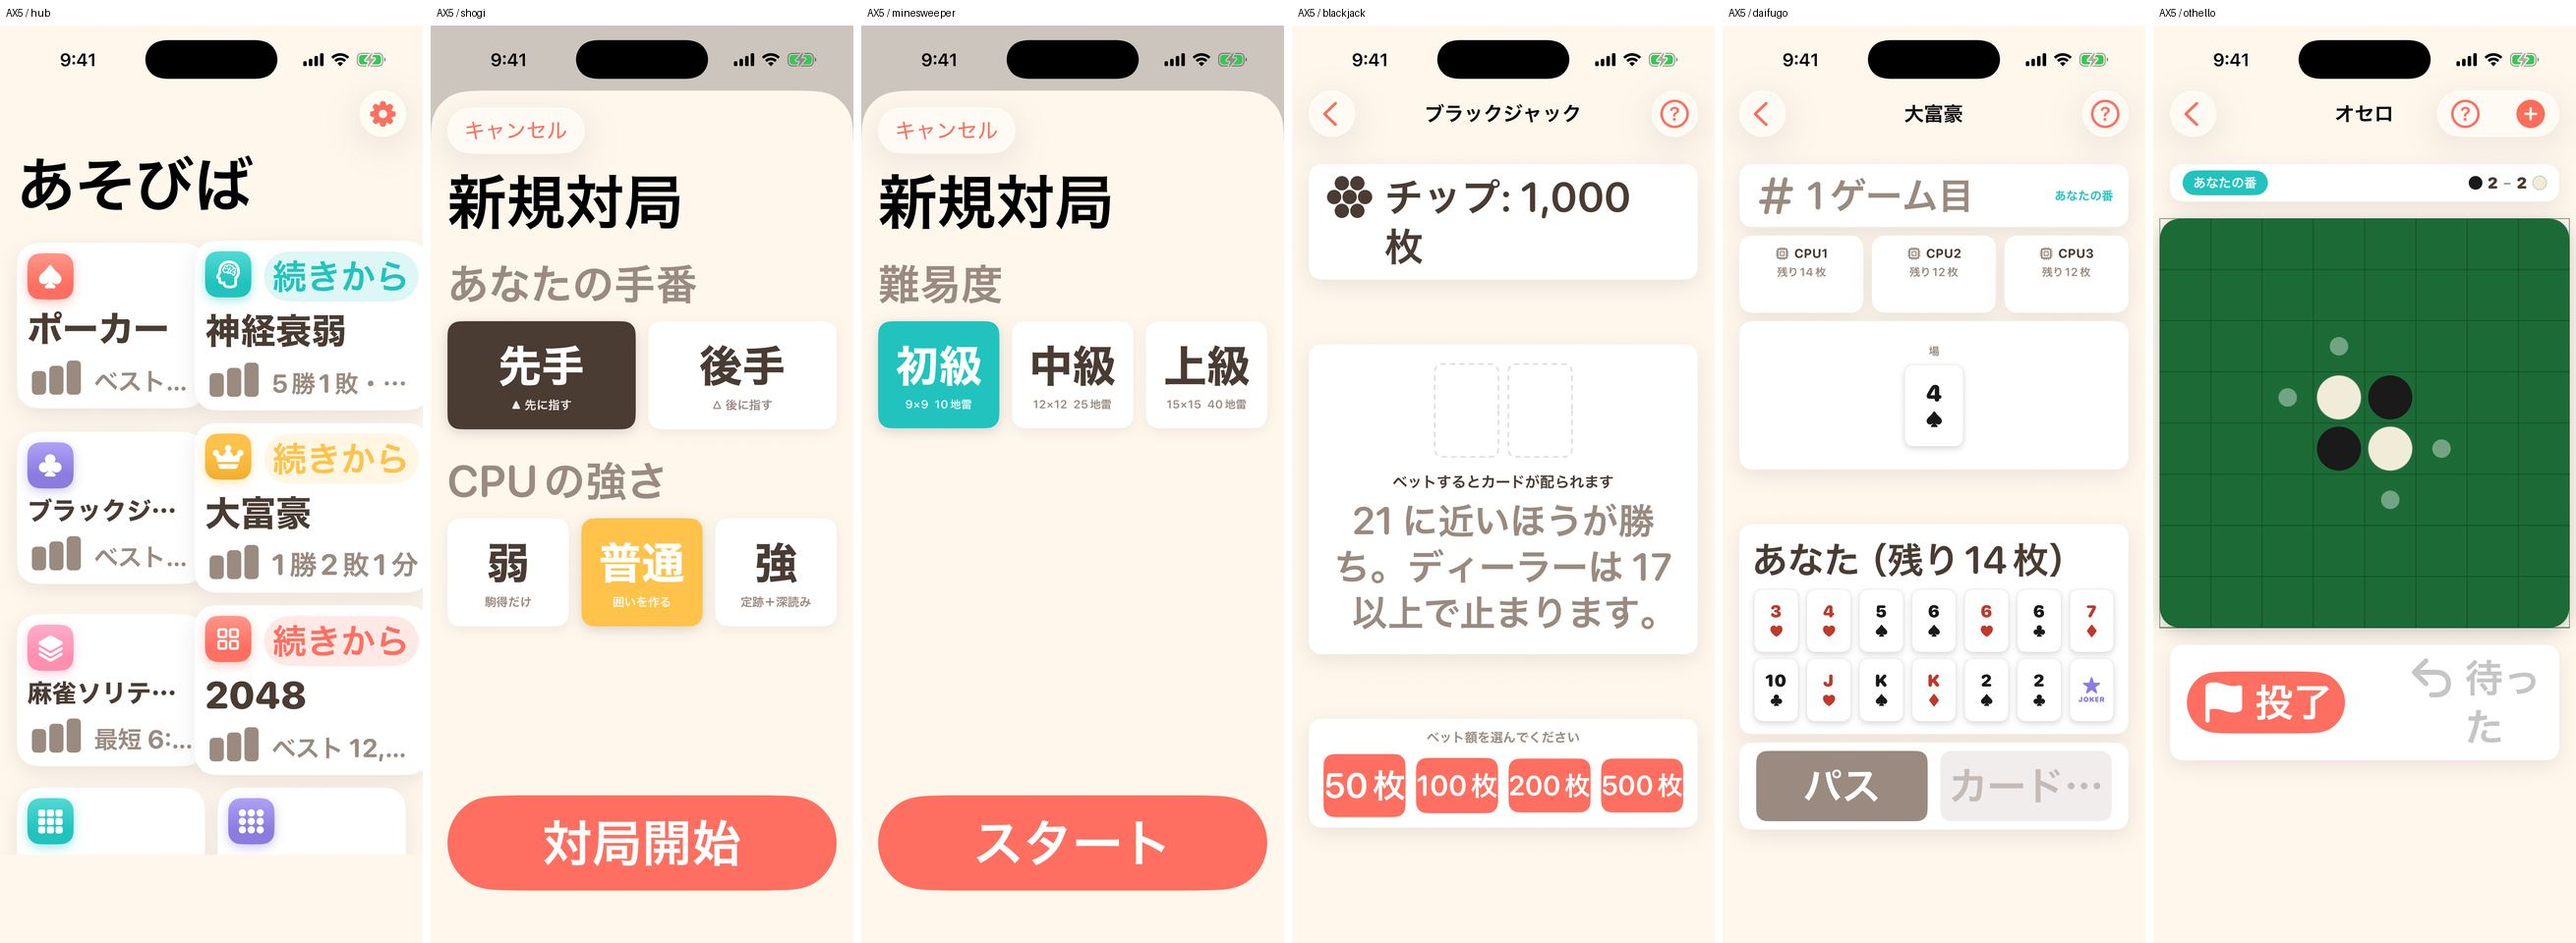
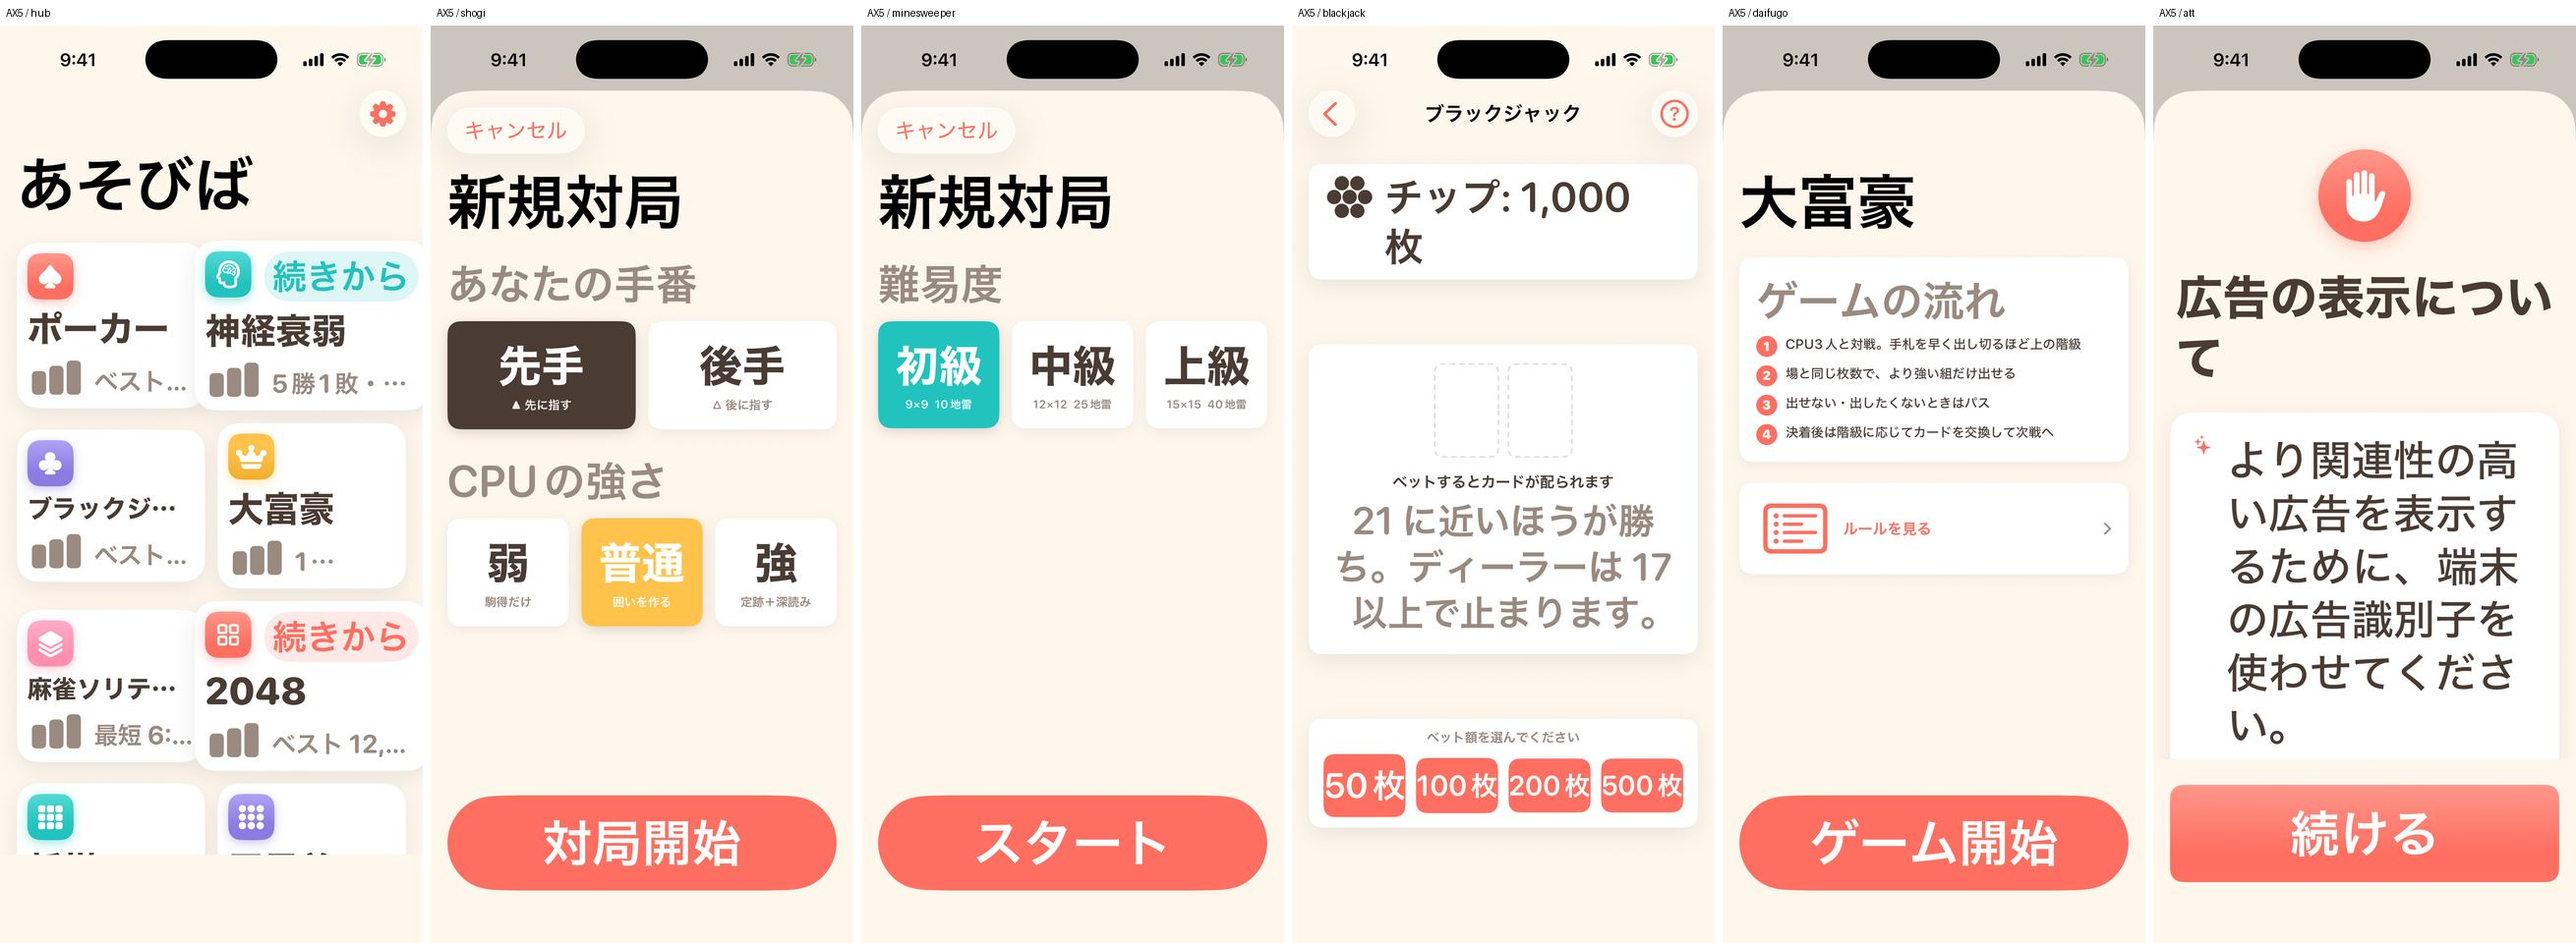
fix(a11y): CodeRabbit 指摘のDynamic Type崩れを修正
- 大富豪・ポーカーの操作ボタンを1行に固定（`パス` `カードを選ぶ` `コール N枚`
  が折り返してボタンの高さが跳ねる）。ブラックジャックと同じ扱いに揃える
- マインスイーパーの終局ラベルから水平 `fixedSize` を外し `minimumScaleFactor`
  を追加（理想幅を要求してタイマー・旗・ズームを押し出す）。プレイ中の残り地雷数は
  等幅で幅を固定したいため `fixedSize` を分岐内へ移して維持
- ATT 事前説明シートの説明文・補足も追従対象にし、併せて説明部分をスクロール可能に
  変更（拡大すると説明だけで画面を超え「続ける」に到達できなくなるため）
- レコメンドカードの見出し・「あそぶ」も追従対象にし、`heightPlaceholder` と
  同じ基準 pt を共有して高さ契約を維持
- `themeTitle` / `themeBody` に weight を渡せるようにし、移行時に太さを変えずに済むようにした

diff --git a/App/TrackingConsentPrompt.swift b/App/TrackingConsentPrompt.swift
@@ -28,32 +28,41 @@ struct TrackingConsentPrompt: View {
     @State private var isContinuing = false
 
     var body: some View {
+        // 説明はスクロールさせ、「続ける」は下端に固定する。文字を拡大すると説明だけで
+        // 画面を超え、固定レイアウトのままだと CTA に到達できなくなるため（#189）。
+        // 既定の文字サイズでは説明が収まるので、見た目は従来と変わらない。
         VStack(spacing: 24) {
-            Image(systemName: "hand.raised.fill")
-                .font(.system(size: 44, weight: .bold))
-                .foregroundStyle(.white)
-                .frame(width: 88, height: 88)
-                .background(Circle().fill(Theme.coral.gradient))
-                .shadow(color: Theme.coral.opacity(0.4), radius: 8, y: 4)
+            ScrollView {
+                VStack(spacing: 24) {
+                    Image(systemName: "hand.raised.fill")
+                        .font(.system(size: 44, weight: .bold))
+                        .foregroundStyle(.white)
+                        .frame(width: 88, height: 88)
+                        .background(Circle().fill(Theme.coral.gradient))
+                        .shadow(color: Theme.coral.opacity(0.4), radius: 8, y: 4)
 
-            Text("広告の表示について")
-                .themeTitle(24)
-                .foregroundStyle(Theme.ink)
+                    Text("広告の表示について")
+                        .themeTitle(24)
+                        .foregroundStyle(Theme.ink)
 
-            VStack(alignment: .leading, spacing: 14) {
-                row("sparkles", "より関連性の高い広告を表示するために、端末の広告識別子を使わせてください。")
-                row("checkmark.circle.fill", "許可しなくても、8つのゲームはすべてそのまま遊べます。")
-                row("info.circle.fill", "許可しない場合も広告は表示されます（内容が関連性の低いものになります）。")
+                    VStack(alignment: .leading, spacing: 14) {
+                        row("sparkles", "より関連性の高い広告を表示するために、端末の広告識別子を使わせてください。")
+                        row("checkmark.circle.fill", "許可しなくても、8つのゲームはすべてそのまま遊べます。")
+                        row("info.circle.fill", "許可しない場合も広告は表示されます（内容が関連性の低いものになります）。")
+                    }
+                    .padding(20)
+                    .popCard()
+
+                    Text("このあとに表示される確認画面で選べます。")
+                        .themeCaption(13, weight: .medium)
+                        .foregroundStyle(Theme.inkSub)
+                        .multilineTextAlignment(.center)
+                }
+                .frame(maxWidth: .infinity)
+                .padding(.horizontal, Theme.pad)
+                .padding(.top, Theme.pad + 40)
             }
-            .padding(20)
-            .popCard()
-
-            Text("このあとに表示される確認画面で選べます。")
-                .font(.system(size: 13, weight: .medium, design: .rounded))
-                .foregroundStyle(Theme.inkSub)
-                .multilineTextAlignment(.center)
-
-            Spacer(minLength: 12)
+            .scrollBounceBehavior(.basedOnSize)
 
             Button {
                 guard !isContinuing else { return }
@@ -72,10 +81,9 @@ struct TrackingConsentPrompt: View {
             }
             .buttonStyle(.plain)
             .disabled(isContinuing)
+            .padding(.horizontal, Theme.pad)
+            .padding(.bottom, Theme.pad + 8)
         }
-        .padding(Theme.pad)
-        .padding(.top, 40)
-        .padding(.bottom, 8)
         .frame(maxWidth: .infinity, maxHeight: .infinity, alignment: .top)
         .popBackground()
     }
@@ -87,7 +95,7 @@ struct TrackingConsentPrompt: View {
                 .foregroundStyle(Theme.coral)
                 .frame(width: 22)
             Text(text)
-                .font(.system(size: 15, weight: .medium, design: .rounded))
+                .themeBody(15, weight: .medium)
                 .foregroundStyle(Theme.ink)
                 .fixedSize(horizontal: false, vertical: true)
             Spacer(minLength: 0)

diff --git a/Packages/GameKit/Sources/Core/RecommendationCard.swift b/Packages/GameKit/Sources/Core/RecommendationCard.swift
@@ -7,7 +7,8 @@ public struct RecommendationCard: View {
     /// 先頭のアイコンの一辺。カードの高さはこれで決まる（文字はこれより低い）。
     private static let iconSide: CGFloat = 36
     private static let verticalPadding: CGFloat = 10
-    private static let captionFont = Font.system(size: 11, weight: .semibold, design: .rounded)
+    /// 見出しの基準 pt。実カードと `heightPlaceholder` で必ず同じ値を使う（高さ契約）。
+    private static let captionSize: CGFloat = 11
 
     private let module: GameModule
     private let accent: Color
@@ -40,7 +41,7 @@ public struct RecommendationCard: View {
                         }
                     VStack(alignment: .leading, spacing: 2) {
                         Text("次はこれで遊ぶ？")
-                            .font(Self.captionFont)
+                            .themeCaption(Self.captionSize, weight: .semibold)
                             .foregroundStyle(Theme.inkSub)
                         Text(module.title)
                             .themeBody(16)
@@ -48,7 +49,7 @@ public struct RecommendationCard: View {
                     }
                     Spacer(minLength: 4)
                     Text("あそぶ")
-                        .font(.system(size: 13, weight: .bold, design: .rounded))
+                        .themeCaption(13)
                         .foregroundStyle(.white)
                         .padding(.horizontal, 12).padding(.vertical, 6)
                         .background(Capsule().fill(accent))
@@ -80,7 +81,7 @@ public struct RecommendationCard: View {
             RoundedRectangle(cornerRadius: 8, style: .continuous)
                 .frame(width: iconSide, height: iconSide)
             VStack(alignment: .leading, spacing: 2) {
-                Text("次はこれで遊ぶ？").font(captionFont)
+                Text("次はこれで遊ぶ？").themeCaption(captionSize, weight: .semibold)
                 Text("　").themeBody(16)
             }
             Spacer(minLength: 4)

diff --git a/Packages/GameKit/Sources/GameMinesweeper/MinesweeperView.swift b/Packages/GameKit/Sources/GameMinesweeper/MinesweeperView.swift
@@ -254,16 +254,20 @@ public struct MinesweeperView: View {
                     Label(won ? "クリア！" : "ゲームオーバー",
                           systemImage: won ? "flag.checkered" : "xmark.octagon.fill")
                         .themeBody(15)
+                        // 文字を拡大すると「ゲームオーバー」が理想幅を要求して
+                        // 右のタイマー・旗・ズームを押し出すため、ここだけは縮めて収める（#189）。
+                        // 残り地雷数（下の分岐）は等幅で幅を固定したいので `fixedSize` を残す。
+                        .minimumScaleFactor(0.7)
                         .foregroundStyle(won ? Theme.teal : Theme.coral)
                 } else {
                     Label(String(format: "%02d", max(0, model.remainingMines)),
                           systemImage: "flag.fill")
                         .font(.system(size: 16, weight: .bold, design: .monospaced))
+                        .fixedSize(horizontal: true, vertical: false)
                         .foregroundStyle(Theme.coral)
                 }
             }
             .lineLimit(1)
-            .fixedSize(horizontal: true, vertical: false)
             .frame(maxWidth: .infinity, alignment: .leading)
 
             Text(stateEmoji)

diff --git a/Packages/GameKit/Sources/Core/Theme.swift b/Packages/GameKit/Sources/Core/Theme.swift
@@ -202,14 +202,14 @@ public extension View {
         background(Theme.background.ignoresSafeArea())
     }
 
-    /// 見出し（`Theme.title` 相当）を Dynamic Type 追従で適用する（#189）。
-    func themeTitle(_ size: CGFloat = 28) -> some View {
-        modifier(ScaledThemeFont(size: size, weight: .heavy, relativeTo: .title))
+    /// 見出しを Dynamic Type 追従で適用する（#189）。
+    func themeTitle(_ size: CGFloat = 28, weight: Font.Weight = .heavy) -> some View {
+        modifier(ScaledThemeFont(size: size, weight: weight, relativeTo: .title))
     }
 
-    /// 本文（`Theme.body` 相当）を Dynamic Type 追従で適用する（#189）。
-    func themeBody(_ size: CGFloat = 17) -> some View {
-        modifier(ScaledThemeFont(size: size, weight: .semibold, relativeTo: .body))
+    /// 本文を Dynamic Type 追従で適用する（#189）。
+    func themeBody(_ size: CGFloat = 17, weight: Font.Weight = .semibold) -> some View {
+        modifier(ScaledThemeFont(size: size, weight: weight, relativeTo: .body))
     }
 
     /// 記録・バッジなど小さな補助テキストを Dynamic Type 追従で適用する（#189）。

diff --git a/Packages/GameKit/Sources/GameDaifugo/DaifugoView.swift b/Packages/GameKit/Sources/GameDaifugo/DaifugoView.swift
@@ -288,6 +288,10 @@ public struct DaifugoView: View {
         Button(action: action) {
             Text(title)
                 .themeBody(14)
+                // 文字を拡大すると「カードを選ぶ」「コール 20枚」等が折り返して
+                // ボタンの高さが跳ねるため、折り返さずに縮めて収める（#189）。
+                .lineLimit(1)
+                .minimumScaleFactor(0.6)
                 .frame(maxWidth: .infinity)
                 .padding(.vertical, 10)
                 .background(disabled ? Theme.inkSub.opacity(0.3) : color,

diff --git a/Packages/GameKit/Sources/GamePoker/PokerView.swift b/Packages/GameKit/Sources/GamePoker/PokerView.swift
@@ -392,6 +392,10 @@ public struct PokerView: View {
         Button(action: action) {
             Text(title)
                 .themeBody(14)
+                // 文字を拡大すると「カードを選ぶ」「コール 20枚」等が折り返して
+                // ボタンの高さが跳ねるため、折り返さずに縮めて収める（#189）。
+                .lineLimit(1)
+                .minimumScaleFactor(0.6)
                 .frame(maxWidth: .infinity)
                 .padding(.vertical, 10)
                 .background(disabled ? Theme.inkSub.opacity(0.3) : color,
